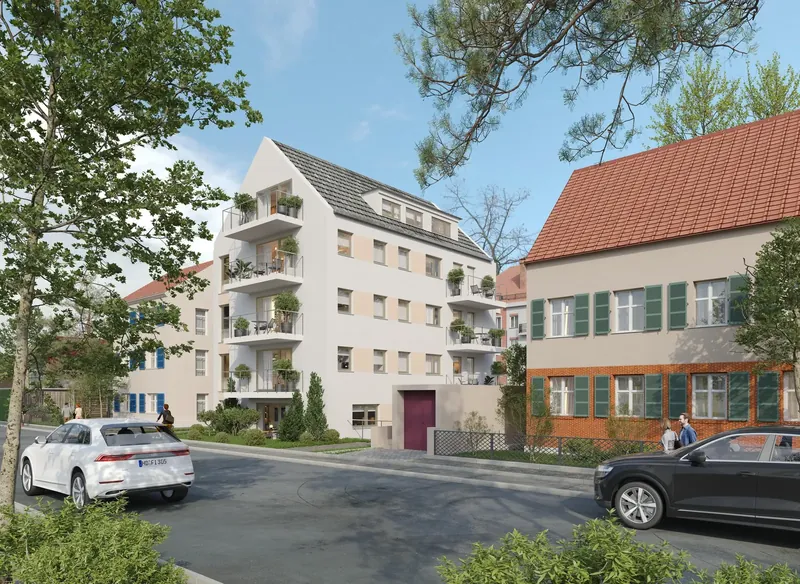
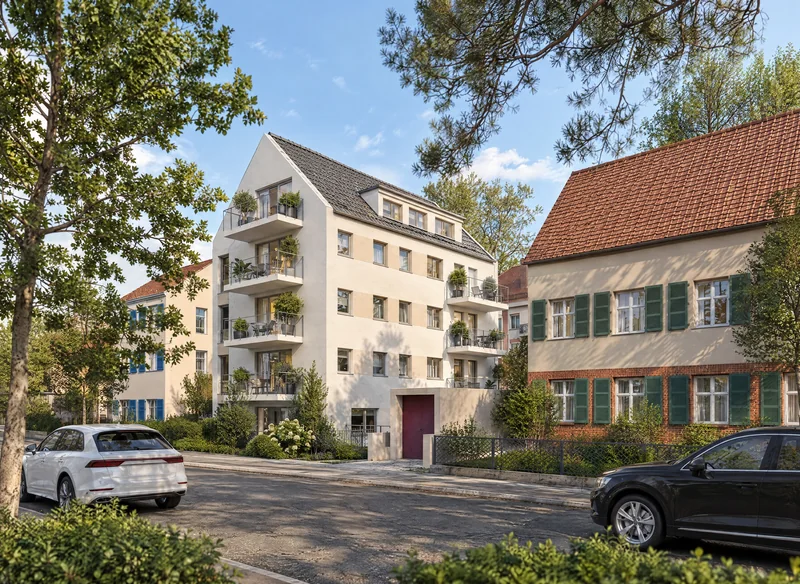
chore: publish site build 2026-09-13 13:59 UTC

diff --git a/index.html b/index.html
@@ -26,10 +26,10 @@
 <link rel="stylesheet" href="/wohnungsrechner.1891209b.css">
 <link rel="stylesheet" href="/kopf.30e96bee.css">
 <link rel="stylesheet" href="/vorteile.3528e7c7.css">
-<link rel="stylesheet" href="/lage.14c9b154.css">
+<link rel="stylesheet" href="/lage.1dfba3ab.css">
 <link rel="stylesheet" href="/wohnungen.1ce88608.css">
 <link rel="stylesheet" href="/ansprechpartner.8d68c454.css">
-<link rel="stylesheet" href="/held.47db7d34.css">
+<link rel="stylesheet" href="/held.d1fd6ca0.css">
 <script type="application/ld+json">{"@context":"https://schema.org","@graph":[{"@type":"Residence","@id":"https://hainbach-h8.de/#residence","name":"H8 Wohnen am Hainbach","url":"https://hainbach-h8.de/","address":{"@type":"PostalAddress","streetAddress":"Hainbachstrasse 8","postalCode":"73730","addressLocality":"Esslingen am Neckar","addressRegion":"Baden-Wuerttemberg","addressCountry":"DE"},"numberOfAccommodationUnits":12,"floorSize":{"@type":"QuantitativeValue","minValue":27.49,"maxValue":82.92,"unitCode":"MTK"}},{"@type":"AggregateOffer","@id":"https://hainbach-h8.de/#angebot","itemOffered":{"@id":"https://hainbach-h8.de/#residence"},"url":"https://hainbach-h8.de/#wohnungen","priceCurrency":"EUR","lowPrice":188000.0,"highPrice":564000.0,"offerCount":12,"availability":"https://schema.org/InStock","businessFunction":"https://purl.org/goodrelations/v1#Sell"}]}</script>
 
 <script src="/js/am-kontrakt.8ceaafb9.js" defer></script>
@@ -141,7 +141,7 @@
 <main class="einseiter">
 
   <section class="h8-hero" id="start">
-    <img class="h8-hero__bild" src="/bilder/aussen-01-strassenansicht-2000.webp" alt="Strassenansicht, Balkonseite" width="2000" height="1461" fetchpriority="high" decoding="async" data-amb-bild="/bilder/aussen-01-strassenansicht-2000.webp /bilder/aussen-01-strassenansicht-1200.webp Strassenansicht, Balkonseite&#10;/bilder/innen-03-wohnen-kueche-offen-1600.webp /bilder/innen-03-wohnen-kueche-offen-1200.webp Wohnen mit offener Küche&#10;/bilder/innen-04-wohnen-gross-1600.webp /bilder/innen-04-wohnen-gross-1200.webp Grosser Wohnraum&#10;/bilder/aussen-02-strassenansicht-1600.webp /bilder/aussen-02-strassenansicht-1200.webp Strassenansicht mit Giebel und Dachgeschoss&#10;">
+    <img class="h8-hero__bild" src="/bilder/aussen-01-strassenansicht-1600.webp" alt="Strassenansicht, Balkonseite" width="2000" height="1461" fetchpriority="high" decoding="async" data-amb-bild="/bilder/aussen-01-strassenansicht-1600.webp /bilder/aussen-01-strassenansicht-1200.webp Strassenansicht, Balkonseite&#10;/bilder/innen-03-wohnen-kueche-offen-2400.webp /bilder/innen-03-wohnen-kueche-offen-1200.webp Wohnen mit offener Küche&#10;/bilder/innen-04-wohnen-gross-2400.webp /bilder/innen-04-wohnen-gross-1200.webp Grosser Wohnraum&#10;/bilder/aussen-02-strassenansicht-2400.webp /bilder/aussen-02-strassenansicht-1200.webp Strassenansicht mit Giebel und Dachgeschoss&#10;">
     <div class="h8-hero__schleier" aria-hidden="true"></div>
     <div class="h8-hero__innen">
       <p class="h8-obertitel h8-hero__vorzeile">Neubau in Oberesslingen</p>
@@ -149,6 +149,7 @@
       <p class="h8-hero__unterzeile">Hainbachstrasse 8, Oberesslingen. 27 bis 83 m², KfW 40 QNG, ab 188.000 EUR. Provisionsfrei, Verkauf direkt durch Amanthos.</p>
       <p class="h8-knopfreihe"><a class="h8-knopf h8-knopf--primaer" href="/rechner/">RENDITE BERECHNEN</a><a class="h8-knopf" href="#broschuere" data-am-gate>BROSCHÜRE ANFORDERN</a></p>
     </div>
+    <p class="amb-bildhinweis">Visualisierung, mit KI erzeugt. Unverbindlich.</p>
   </section>
 
 
@@ -180,7 +181,7 @@
 
   <section class="h8-abschnitt verkaufsstand">
     <h2 class="h8-abschnitt__titel h8-abschnitt__titel--vorbild" id="verkaufsstand" data-am-einblenden>Verkaufsstand</h2>
-    <img class="h8-bild" src="/bilder/innen-03-wohnen-kueche-offen-1600.webp" srcset="/bilder/innen-03-wohnen-kueche-offen-800.webp 800w, /bilder/innen-03-wohnen-kueche-offen-1200.webp 1200w, /bilder/innen-03-wohnen-kueche-offen-1600.webp 1600w" sizes="(max-width: 1180px) 92vw, 1100px" alt="Wohnen mit offener Küche" width="1600" height="1169" loading="lazy" decoding="async">
+    <img class="h8-bild" src="/bilder/innen-03-wohnen-kueche-offen-2400.webp" srcset="/bilder/innen-03-wohnen-kueche-offen-800.webp 800w, /bilder/innen-03-wohnen-kueche-offen-1200.webp 1200w, /bilder/innen-03-wohnen-kueche-offen-1600.webp 1600w, /bilder/innen-03-wohnen-kueche-offen-2400.webp 2400w" sizes="(max-width: 1180px) 92vw, 1100px" alt="Wohnen mit offener Küche" width="1600" height="1169" loading="lazy" decoding="async">
     <div class="h8-inhalt">
       <p class="h8-fliesstext">Der Vertrieb läuft seit September 2026. Reserviert wird mit einer Reservierungsvereinbarung, der notarielle Kaufvertrag folgt, sobald die Teilungserklärung vorliegt. Welche Wohnung noch frei ist, steht in der Übersicht weiter unten und wird laufend nachgeführt.</p>
       <ul class="h8-ampel">
@@ -633,7 +634,7 @@
 
 <section class="h8-abschnitt amv">
       <h2 class="h8-abschnitt__titel h8-abschnitt__titel--vorbild" id="vorteile" data-am-einblenden>Zwei Vorteile für Kapitalanleger</h2>
-      <img class="h8-bild" src="/bilder/innen-02a-wohnen-sofa-braun-1600.webp" srcset="/bilder/innen-02a-wohnen-sofa-braun-800.webp 800w, /bilder/innen-02a-wohnen-sofa-braun-1200.webp 1200w, /bilder/innen-02a-wohnen-sofa-braun-1600.webp 1600w" sizes="(max-width: 1180px) 92vw, 1100px" alt="Wohnen mit Schlafbereich" width="1600" height="1169" loading="lazy" decoding="async">
+      <img class="h8-bild" src="/bilder/innen-02a-wohnen-sofa-braun-2400.webp" srcset="/bilder/innen-02a-wohnen-sofa-braun-800.webp 800w, /bilder/innen-02a-wohnen-sofa-braun-1200.webp 1200w, /bilder/innen-02a-wohnen-sofa-braun-1600.webp 1600w, /bilder/innen-02a-wohnen-sofa-braun-2400.webp 2400w" sizes="(max-width: 1180px) 92vw, 1100px" alt="Wohnen mit Schlafbereich" width="1600" height="1169" loading="lazy" decoding="async">
       <div class="h8-inhalt">
         <p class="h8-fliesstext">Der eine ist die Abschreibung, der andere das zinsgünstige KfW-Darlehen. Beide gelten für jede der zwölf Wohnungen.</p>
         <div class="amv__spalten">
@@ -680,7 +681,8 @@
   <div class="h8-band">
 <section class="h8-abschnitt lage">
       <h2 class="h8-abschnitt__titel h8-abschnitt__titel--vorbild" id="lage" data-am-einblenden>Oberesslingen: gewachsen, versorgt, angebunden</h2>
-      <img class="h8-bild" src="/bilder/aussen-02-strassenansicht-1600.webp" srcset="/bilder/aussen-02-strassenansicht-800.webp 800w, /bilder/aussen-02-strassenansicht-1200.webp 1200w, /bilder/aussen-02-strassenansicht-1600.webp 1600w" sizes="(max-width: 1180px) 92vw, 1100px" alt="Strassenansicht mit Giebel und Dachgeschoss" width="1600" height="1169" loading="lazy" decoding="async">
+      <img class="h8-bild" src="/bilder/aussen-02-strassenansicht-2400.webp" srcset="/bilder/aussen-02-strassenansicht-800.webp 800w, /bilder/aussen-02-strassenansicht-1200.webp 1200w, /bilder/aussen-02-strassenansicht-1600.webp 1600w, /bilder/aussen-02-strassenansicht-2400.webp 2400w" sizes="(max-width: 1180px) 92vw, 1100px" alt="Strassenansicht mit Giebel und Dachgeschoss" width="1600" height="1169" loading="lazy" decoding="async">
+      <p class="aml-bildhinweis">Visualisierung, mit KI erzeugt. Unverbindlich.</p>
       <ul class="h8-liste aml-stichpunkte">
         <li>Esslingen am Neckar, gewachsener Standort in der Region Stuttgart</li>
         <li>Oberesslingen, Stadtteil mit vollständiger Nahversorgung</li>
@@ -728,13 +730,13 @@
       </ul>
       <p class="h8-fussnote">Ein Energieausweis liegt für den Neubau noch nicht vor. Sobald er ausgestellt ist, stehen die Pflichtangaben nach GEG § 87 an dieser Stelle. Bis dahin wird kein Energiekennwert genannt.</p>
     </div>
-    <img class="h8-bild" src="/bilder/innen-05-bad-1080.webp" srcset="/bilder/innen-05-bad-800.webp 800w, /bilder/innen-05-bad-1080.webp 1080w" sizes="(max-width: 1180px) 92vw, 1100px" alt="Bad mit Walk-in-Dusche" width="1080" height="1350" loading="lazy" decoding="async">
+    <img class="h8-bild" src="/bilder/innen-05-bad-2400.webp" srcset="/bilder/innen-05-bad-800.webp 800w, /bilder/innen-05-bad-1200.webp 1200w, /bilder/innen-05-bad-1600.webp 1600w, /bilder/innen-05-bad-2400.webp 2400w" sizes="(max-width: 1180px) 92vw, 1100px" alt="Bad mit Walk-in-Dusche" width="1080" height="1350" loading="lazy" decoding="async">
     </div>
   </section>
 
   <div class="h8-band">
     <section class="h8-abschnitt zeitplan">
-      <img class="h8-bild" src="/bilder/innen-04-wohnen-gross-1600.webp" srcset="/bilder/innen-04-wohnen-gross-800.webp 800w, /bilder/innen-04-wohnen-gross-1200.webp 1200w, /bilder/innen-04-wohnen-gross-1600.webp 1600w" sizes="(max-width: 1180px) 92vw, 1100px" alt="Grosser Wohnraum" width="1600" height="1169" loading="lazy" decoding="async">
+      <img class="h8-bild" src="/bilder/innen-04-wohnen-gross-2400.webp" srcset="/bilder/innen-04-wohnen-gross-800.webp 800w, /bilder/innen-04-wohnen-gross-1200.webp 1200w, /bilder/innen-04-wohnen-gross-1600.webp 1600w, /bilder/innen-04-wohnen-gross-2400.webp 2400w" sizes="(max-width: 1180px) 92vw, 1100px" alt="Grosser Wohnraum" width="1600" height="1169" loading="lazy" decoding="async">
       <div class="h8-inhalt">
         <h2 class="h8-abschnitt__titel" id="zeitplan" data-am-einblenden>Wo das Projekt steht</h2>
         <p class="h8-fliesstext">Der Zeitplan steht offen auf der Seite, mit dem, was erledigt ist, und dem, was noch aussteht. Gezahlt wird nach der Makler- und Bauträgerverordnung in Raten nach Baufortschritt; die erste Rate wird mit dem Baubeginn fällig.</p>
@@ -754,7 +756,7 @@
 
   <section class="h8-abschnitt vertrauen">
     <h2 class="h8-abschnitt__titel h8-abschnitt__titel--vorbild" id="vertrauen" data-am-einblenden>Wer hinter dem Projekt steht</h2>
-    <img class="h8-bild" src="/bilder/innen-04-wohnen-gross-1600.webp" srcset="/bilder/innen-04-wohnen-gross-800.webp 800w, /bilder/innen-04-wohnen-gross-1200.webp 1200w, /bilder/innen-04-wohnen-gross-1600.webp 1600w" sizes="(max-width: 1180px) 92vw, 1100px" alt="Grosser Wohnraum" width="1600" height="1169" loading="lazy" decoding="async">
+    <img class="h8-bild" src="/bilder/innen-04-wohnen-gross-2400.webp" srcset="/bilder/innen-04-wohnen-gross-800.webp 800w, /bilder/innen-04-wohnen-gross-1200.webp 1200w, /bilder/innen-04-wohnen-gross-1600.webp 1600w, /bilder/innen-04-wohnen-gross-2400.webp 2400w" sizes="(max-width: 1180px) 92vw, 1100px" alt="Grosser Wohnraum" width="1600" height="1169" loading="lazy" decoding="async">
     <div class="h8-inhalt">
       <p class="h8-fliesstext">Wir verkaufen kein vermitteltes Objekt. Das Grundstück in der Hainbachstrasse gehört seit November 2020 zur Amanthos-Gruppe, Planung und Baugenehmigung haben wir selbst betrieben. Deshalb ist der Kauf für Sie provisionsfrei.</p>
       <ul class="h8-personen" data-am-einblenden>
@@ -771,7 +773,7 @@
   <div class="h8-band">
     <section class="h8-abschnitt kontakt">
       <h2 class="h8-abschnitt__titel h8-abschnitt__titel--vorbild" id="kontakt" data-am-einblenden>Ihre Ansprechpartner</h2>
-      <img class="h8-bild" src="/bilder/innen-03-wohnen-kueche-offen-1600.webp" srcset="/bilder/innen-03-wohnen-kueche-offen-800.webp 800w, /bilder/innen-03-wohnen-kueche-offen-1200.webp 1200w, /bilder/innen-03-wohnen-kueche-offen-1600.webp 1600w" sizes="(max-width: 1180px) 92vw, 1100px" alt="Wohnen mit offener Küche" width="1600" height="1169" loading="lazy" decoding="async">
+      <img class="h8-bild" src="/bilder/innen-03-wohnen-kueche-offen-2400.webp" srcset="/bilder/innen-03-wohnen-kueche-offen-800.webp 800w, /bilder/innen-03-wohnen-kueche-offen-1200.webp 1200w, /bilder/innen-03-wohnen-kueche-offen-1600.webp 1600w, /bilder/innen-03-wohnen-kueche-offen-2400.webp 2400w" sizes="(max-width: 1180px) 92vw, 1100px" alt="Wohnen mit offener Küche" width="1600" height="1169" loading="lazy" decoding="async">
       <div class="h8-inhalt">
         <p class="h8-fliesstext">Sie erreichen uns direkt, ohne Maklerbüro dazwischen. Für eine Besichtigung der Lage, für Fragen zur Finanzierung oder zur Reservierung: rufen Sie an oder buchen Sie ein Telefonat.</p>
 <div class="amp" data-am-einblenden>
@@ -813,7 +815,7 @@
 
   <section class="h8-abschnitt broschuere">
     <h2 class="h8-abschnitt__titel h8-abschnitt__titel--vorbild" id="broschuere" data-am-einblenden>Broschüre anfordern</h2>
-    <img class="h8-bild" src="/bilder/innen-02b-wohnen-sofa-rot-1600.webp" srcset="/bilder/innen-02b-wohnen-sofa-rot-800.webp 800w, /bilder/innen-02b-wohnen-sofa-rot-1200.webp 1200w, /bilder/innen-02b-wohnen-sofa-rot-1600.webp 1600w" sizes="(max-width: 1180px) 92vw, 1100px" alt="Wohnen mit rotem Sofa" width="1600" height="1169" loading="lazy" decoding="async">
+    <img class="h8-bild" src="/bilder/innen-02b-wohnen-sofa-rot-2400.webp" srcset="/bilder/innen-02b-wohnen-sofa-rot-800.webp 800w, /bilder/innen-02b-wohnen-sofa-rot-1200.webp 1200w, /bilder/innen-02b-wohnen-sofa-rot-1600.webp 1600w, /bilder/innen-02b-wohnen-sofa-rot-2400.webp 2400w" sizes="(max-width: 1180px) 92vw, 1100px" alt="Wohnen mit rotem Sofa" width="1600" height="1169" loading="lazy" decoding="async">
     <div class="h8-inhalt">
       <p class="h8-fliesstext">Grundrisse, Ausstattung und Kaufpreise aller zwölf Wohnungen. Sie erhalten die PDF sofort im Anschluss.</p>
       <p class="h8-fliesstext">Ihre Angaben gehen direkt an Julian Neyer und werden nur zur Beantwortung Ihrer Anfrage genutzt. Es folgt kein Newsletter.</p>

diff --git a/held.d1fd6ca0.css b/held.d1fd6ca0.css
@@ -88,3 +88,33 @@
   .h8-hero__bild[data-amb-ebene] { transition: none; }
   [data-amb-pause] { display: none; }
 }
+
+/* Die Kennzeichnung im Helden ----------------------------------------------
+ *
+ * Seit dem 13.09.2026 sind die beiden Aussenmotive KI-ueberarbeitet: die
+ * Geometrie stammt weiter aus dem 3D-Modell von anitekt, Materialien, Licht und
+ * Vegetation kommen aus dem Bildmodell. Damit gilt fuer sie dieselbe Pflicht wie
+ * fuer die Wohnungsbilder, naemlich die sichtbare Kennzeichnung nach Artikel 50
+ * KI-VO (`docs/rendering-aus-grundriss.md`, Abschnitt Kennzeichnung).
+ *
+ * Sie steht IM Bild und nicht darunter, weil der Held das Fenster fuellt und es
+ * kein Darunter gibt, ohne seine Hoehe anzutasten. Dieses Blatt fasst die Hoehe
+ * des Helden nicht an, das bleibt die Zusage von oben.
+ *
+ * 12 px ist die Untergrenze des Hauses und gleichlautend mit `.amw-hinweis`.
+ * Der Schatten steht da, weil der Text auf einem Bild liegt, dessen Helligkeit
+ * je Motiv wechselt; ohne ihn verschwindet er auf der hellen Fassade.
+ */
+.amb-bildhinweis {
+  position: absolute;
+  right: clamp(12px, 4vw, 32px);
+  bottom: 10px;
+  z-index: 2;
+  margin: 0;
+  max-width: 60%;
+  font-size: 12px;
+  letter-spacing: 0.04em;
+  text-align: right;
+  color: rgba(255, 255, 255, 0.82);
+  text-shadow: 0 1px 3px rgba(0, 0, 0, 0.55);
+}

diff --git a/lage.1dfba3ab.css b/lage.1dfba3ab.css
@@ -151,3 +151,20 @@
   --aml-fuellung: var(--h8-rot, #b3261e);
   --aml-tinte: var(--h8-karte, #fbfaf7);
 }
+
+/* Die Kennzeichnung unter dem Lagebild --------------------------------------
+ *
+ * Gleicher Grund wie im Helden: das Motiv `aussen-02` ist seit dem 13.09.2026
+ * KI-ueberarbeitet und damit sichtbar kennzeichnungspflichtig nach Artikel 50
+ * KI-VO. Hier steht der Satz unter dem Bild, weil es anders als der Held kein
+ * Vollbild ist.
+ *
+ * Werte gleichlautend mit `.amw-hinweis` in wohnungen.css: dieselbe Pflicht
+ * darf auf derselben Seite nicht zweierlei aussehen.
+ */
+.aml-bildhinweis {
+  margin: 6px 0 0;
+  font-size: 12px;
+  letter-spacing: 0.04em;
+  color: var(--h8-leise, #5e5d56);
+}

diff --git a/404.html b/404.html
@@ -26,10 +26,10 @@
 <link rel="stylesheet" href="/wohnungsrechner.1891209b.css">
 <link rel="stylesheet" href="/kopf.30e96bee.css">
 <link rel="stylesheet" href="/vorteile.3528e7c7.css">
-<link rel="stylesheet" href="/lage.14c9b154.css">
+<link rel="stylesheet" href="/lage.1dfba3ab.css">
 <link rel="stylesheet" href="/wohnungen.1ce88608.css">
 <link rel="stylesheet" href="/ansprechpartner.8d68c454.css">
-<link rel="stylesheet" href="/held.47db7d34.css">
+<link rel="stylesheet" href="/held.d1fd6ca0.css">
 
 <script src="/js/am-kontrakt.8ceaafb9.js" defer></script>
 <script src="/js/wohnungsrechner.b0a8e0a4.js" defer></script>

diff --git a/datenschutz/index.html b/datenschutz/index.html
@@ -26,10 +26,10 @@
 <link rel="stylesheet" href="/wohnungsrechner.1891209b.css">
 <link rel="stylesheet" href="/kopf.30e96bee.css">
 <link rel="stylesheet" href="/vorteile.3528e7c7.css">
-<link rel="stylesheet" href="/lage.14c9b154.css">
+<link rel="stylesheet" href="/lage.1dfba3ab.css">
 <link rel="stylesheet" href="/wohnungen.1ce88608.css">
 <link rel="stylesheet" href="/ansprechpartner.8d68c454.css">
-<link rel="stylesheet" href="/held.47db7d34.css">
+<link rel="stylesheet" href="/held.d1fd6ca0.css">
 
 <script src="/js/am-kontrakt.8ceaafb9.js" defer></script>
 <script src="/js/wohnungsrechner.b0a8e0a4.js" defer></script>

diff --git a/impressum/index.html b/impressum/index.html
@@ -26,10 +26,10 @@
 <link rel="stylesheet" href="/wohnungsrechner.1891209b.css">
 <link rel="stylesheet" href="/kopf.30e96bee.css">
 <link rel="stylesheet" href="/vorteile.3528e7c7.css">
-<link rel="stylesheet" href="/lage.14c9b154.css">
+<link rel="stylesheet" href="/lage.1dfba3ab.css">
 <link rel="stylesheet" href="/wohnungen.1ce88608.css">
 <link rel="stylesheet" href="/ansprechpartner.8d68c454.css">
-<link rel="stylesheet" href="/held.47db7d34.css">
+<link rel="stylesheet" href="/held.d1fd6ca0.css">
 
 <script src="/js/am-kontrakt.8ceaafb9.js" defer></script>
 <script src="/js/wohnungsrechner.b0a8e0a4.js" defer></script>

diff --git a/rechner/index.html b/rechner/index.html
@@ -26,10 +26,10 @@
 <link rel="stylesheet" href="/wohnungsrechner.1891209b.css">
 <link rel="stylesheet" href="/kopf.30e96bee.css">
 <link rel="stylesheet" href="/vorteile.3528e7c7.css">
-<link rel="stylesheet" href="/lage.14c9b154.css">
+<link rel="stylesheet" href="/lage.1dfba3ab.css">
 <link rel="stylesheet" href="/wohnungen.1ce88608.css">
 <link rel="stylesheet" href="/ansprechpartner.8d68c454.css">
-<link rel="stylesheet" href="/held.47db7d34.css">
+<link rel="stylesheet" href="/held.d1fd6ca0.css">
 
 <script src="/js/am-kontrakt.8ceaafb9.js" defer></script>
 <script src="/js/wohnungsrechner.b0a8e0a4.js" defer></script>
